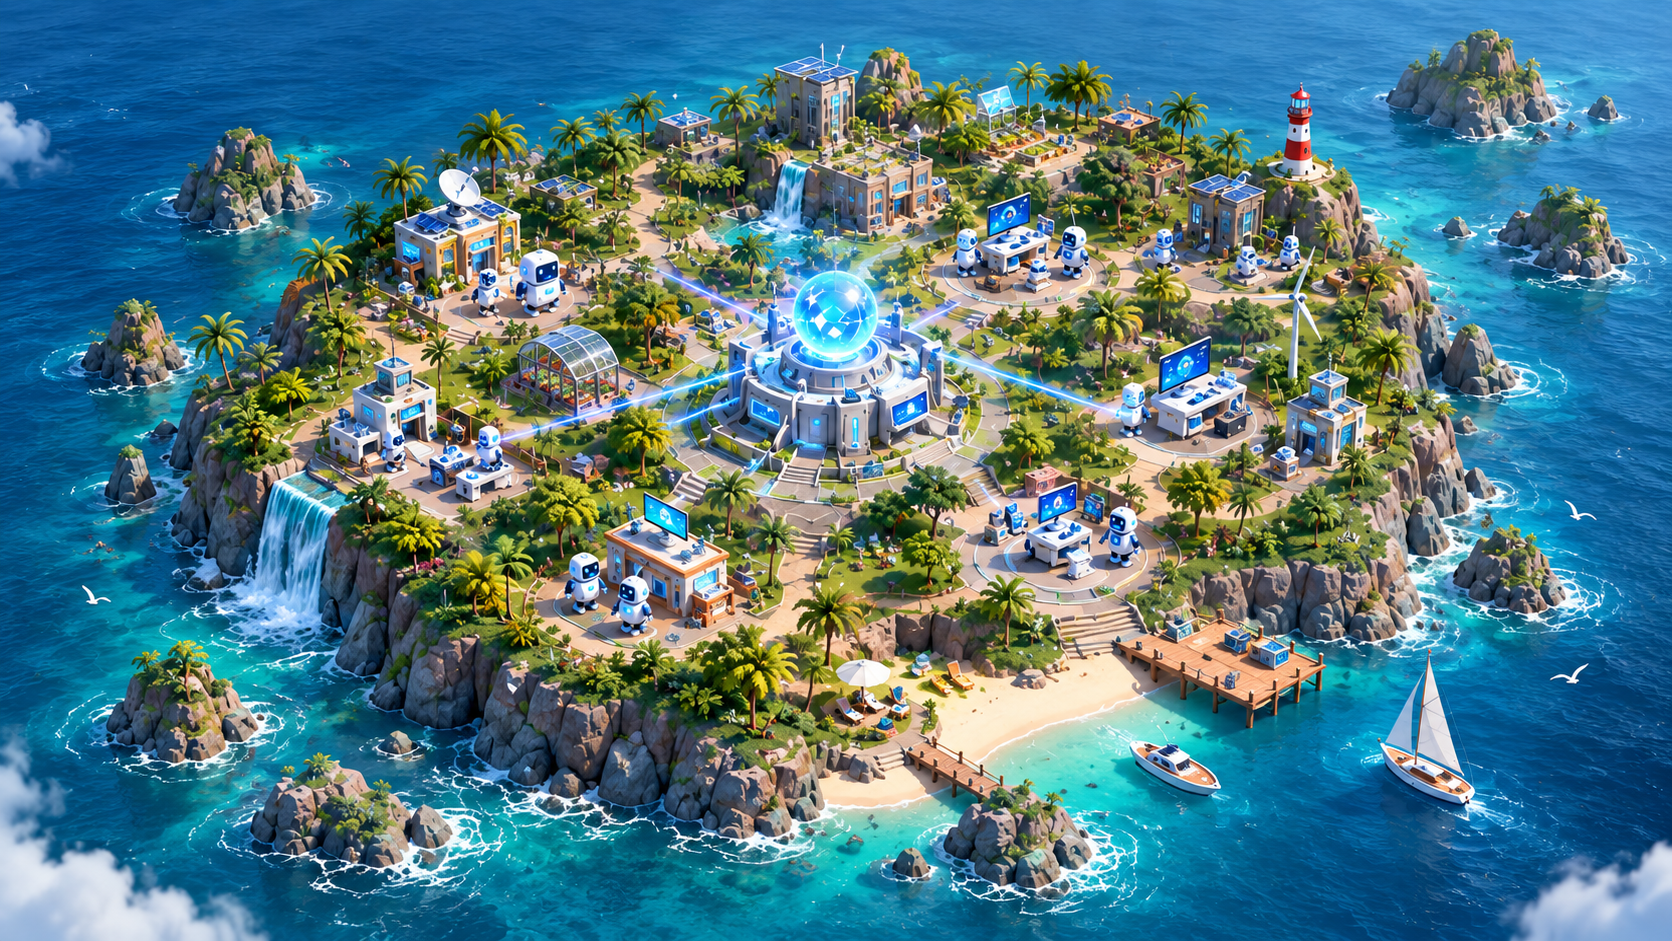
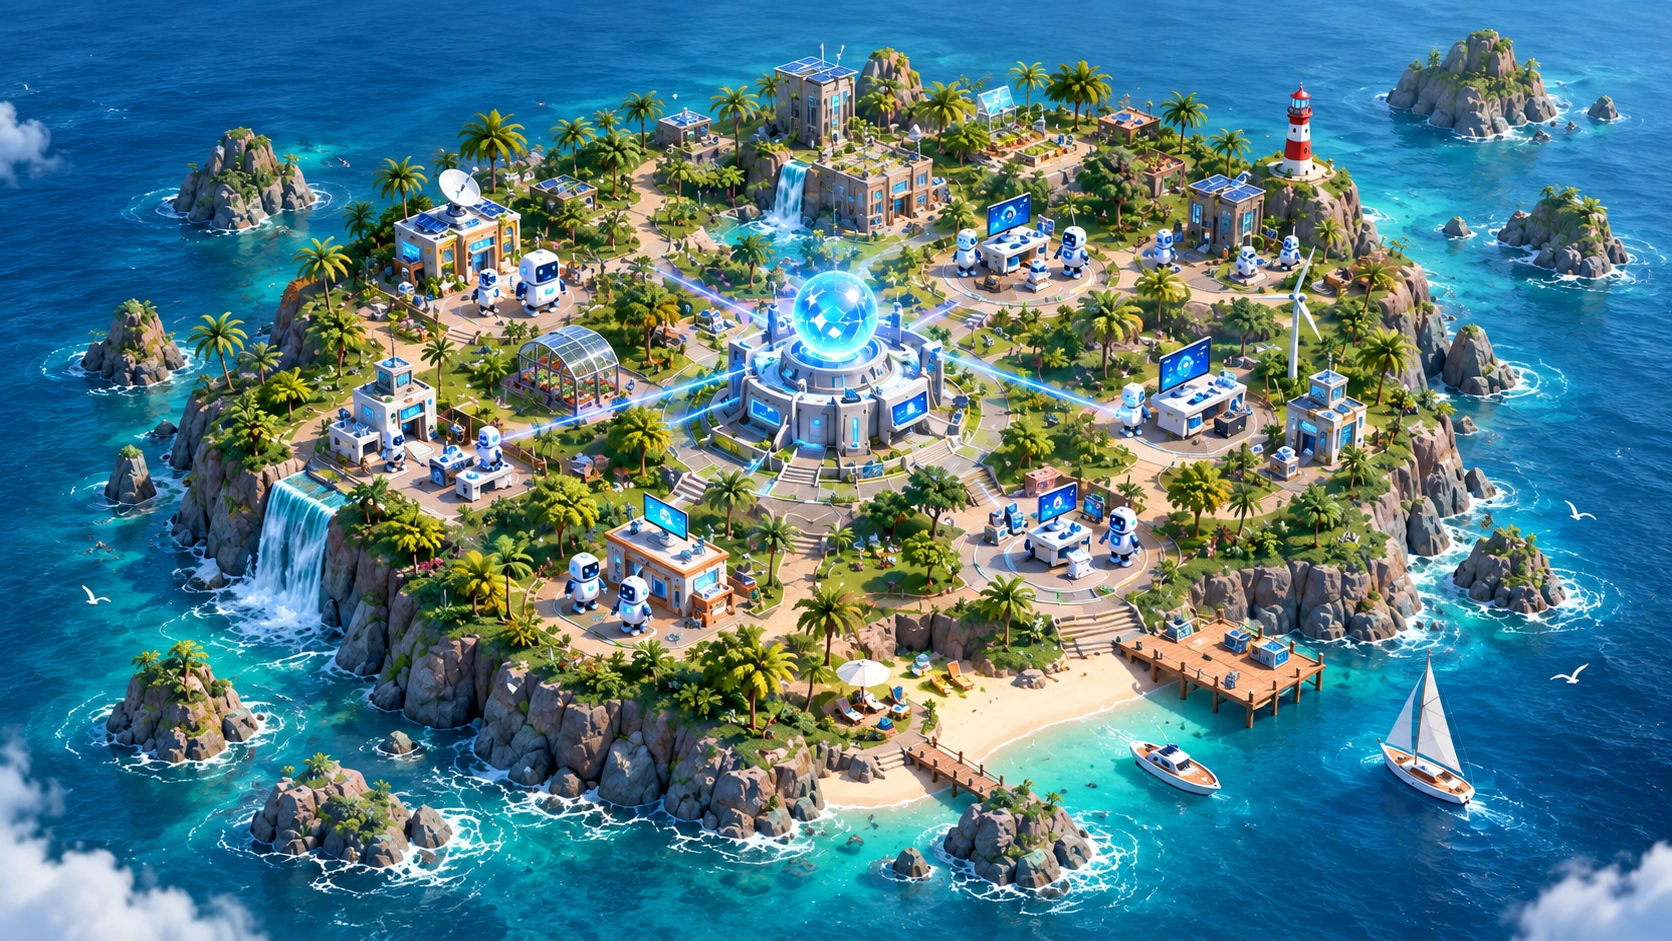
Encode the island at WebP quality 95
The owner compared a 2x crop of the lighthouse - the most detailed part of
the artwork - against the original and against the lossless encode, and
could not tell them apart. So the trade is taken: about 80% off each file
where lossless took 24%.

  Home hero       2.92 MB -> 0.68 MB
  Tools/History   2.05 MB -> 0.35 MB each

Foliage and water are the easy case for a lossy encoder; flat gradients
and hard edges are where it shows. The README says so, so the next person
to swap the artwork knows what would make 95 the wrong number.

Also dropped the up-to-date check. It compared file timestamps, which is
correct right up until QUALITY changes - then every file looks current,
nothing is re-encoded, and the new setting silently does nothing. That is
exactly the bug that would have shipped this commit as a no-op. Three
images take about two seconds; the cache was not worth a class of bug.

Verified: every screen serves the new encode at full 1672x941, and Home
at 0.68 MB is indistinguishable from the 2.92 MB original on screen.

Claude-Session: https://claude.ai/code/session_01UQNJ5LktcE9toucncZVYvq

diff --git a/apps/web/components/world/Backdrop.tsx b/apps/web/components/world/Backdrop.tsx
@@ -34,8 +34,9 @@ export function Backdrop({
  * The artwork itself, WebP first.
  *
  * The PNG stays the asset of record - it is what the owner uploaded and what
- * the WebP is generated from, losslessly, at build time. So this is a smaller
- * container for identical pixels, not a different picture.
+ * the WebP is generated from at build time, at a quality the owner chose by
+ * comparing a 2x crop of the most detailed part of the artwork against the
+ * original. It is a sixth of the size and indistinguishable at viewing size.
  *
  * <picture> here negotiates FORMAT, and nothing else. A browser too old for
  * WebP skips the <source> and loads the PNG. It is not an error fallback: a

diff --git a/apps/web/public/world/README.md b/apps/web/public/world/README.md
@@ -20,8 +20,15 @@ Replace the `.png` and push - nothing else. `scripts/optimize-world-art.mjs`
 runs on every build and re-encodes each PNG here as a `.webp` beside it, and
 the page asks for the WebP first with the PNG as its fallback.
 
-The re-encode is **lossless**: identical pixels in a smaller container, around
-20-25% off these files. Nothing in the build ever degrades artwork.
+The re-encode runs at **WebP quality 95**, which takes about 80% off these
+files. That number is the owner's decision, made by comparing a 2x crop of the
+lighthouse - the most detailed part of the artwork - against the original and
+against a lossless encode, and finding no visible difference.
+
+If artwork is ever replaced with something that suffers at 95 - flat gradients
+and hard edges are where WebP shows its teeth, foliage and water are not -
+raise `QUALITY` in the script, or set `lossless: true` there and accept that
+the files only shrink by about a quarter.
 
 Do not hand-edit the `.webp` files, and do not delete a `.png` - the PNG is the
 asset of record and the input the WebP is made from. It is also what a browser
@@ -31,11 +38,6 @@ If a WebP cannot be produced, the build **fails** rather than deploying. That
 is deliberate: a missing WebP renders a broken image, it does not quietly fall
 back to the PNG, so a red build is the only outcome that cannot ship a hole
 where the island should be.
-
-Lossy WebP would cut these about 6x rather than 1.3x, at a difference that is
-invisible at viewing size and measurable only by zooming in. That is a
-decision for whoever owns the artwork, not for the build - change `QUALITY` in
-the script if it is ever made.
 
 **Tools and History** backgrounds sit much further back than Home - in the
 reference they are a distant island under cloud, with the content reading over
